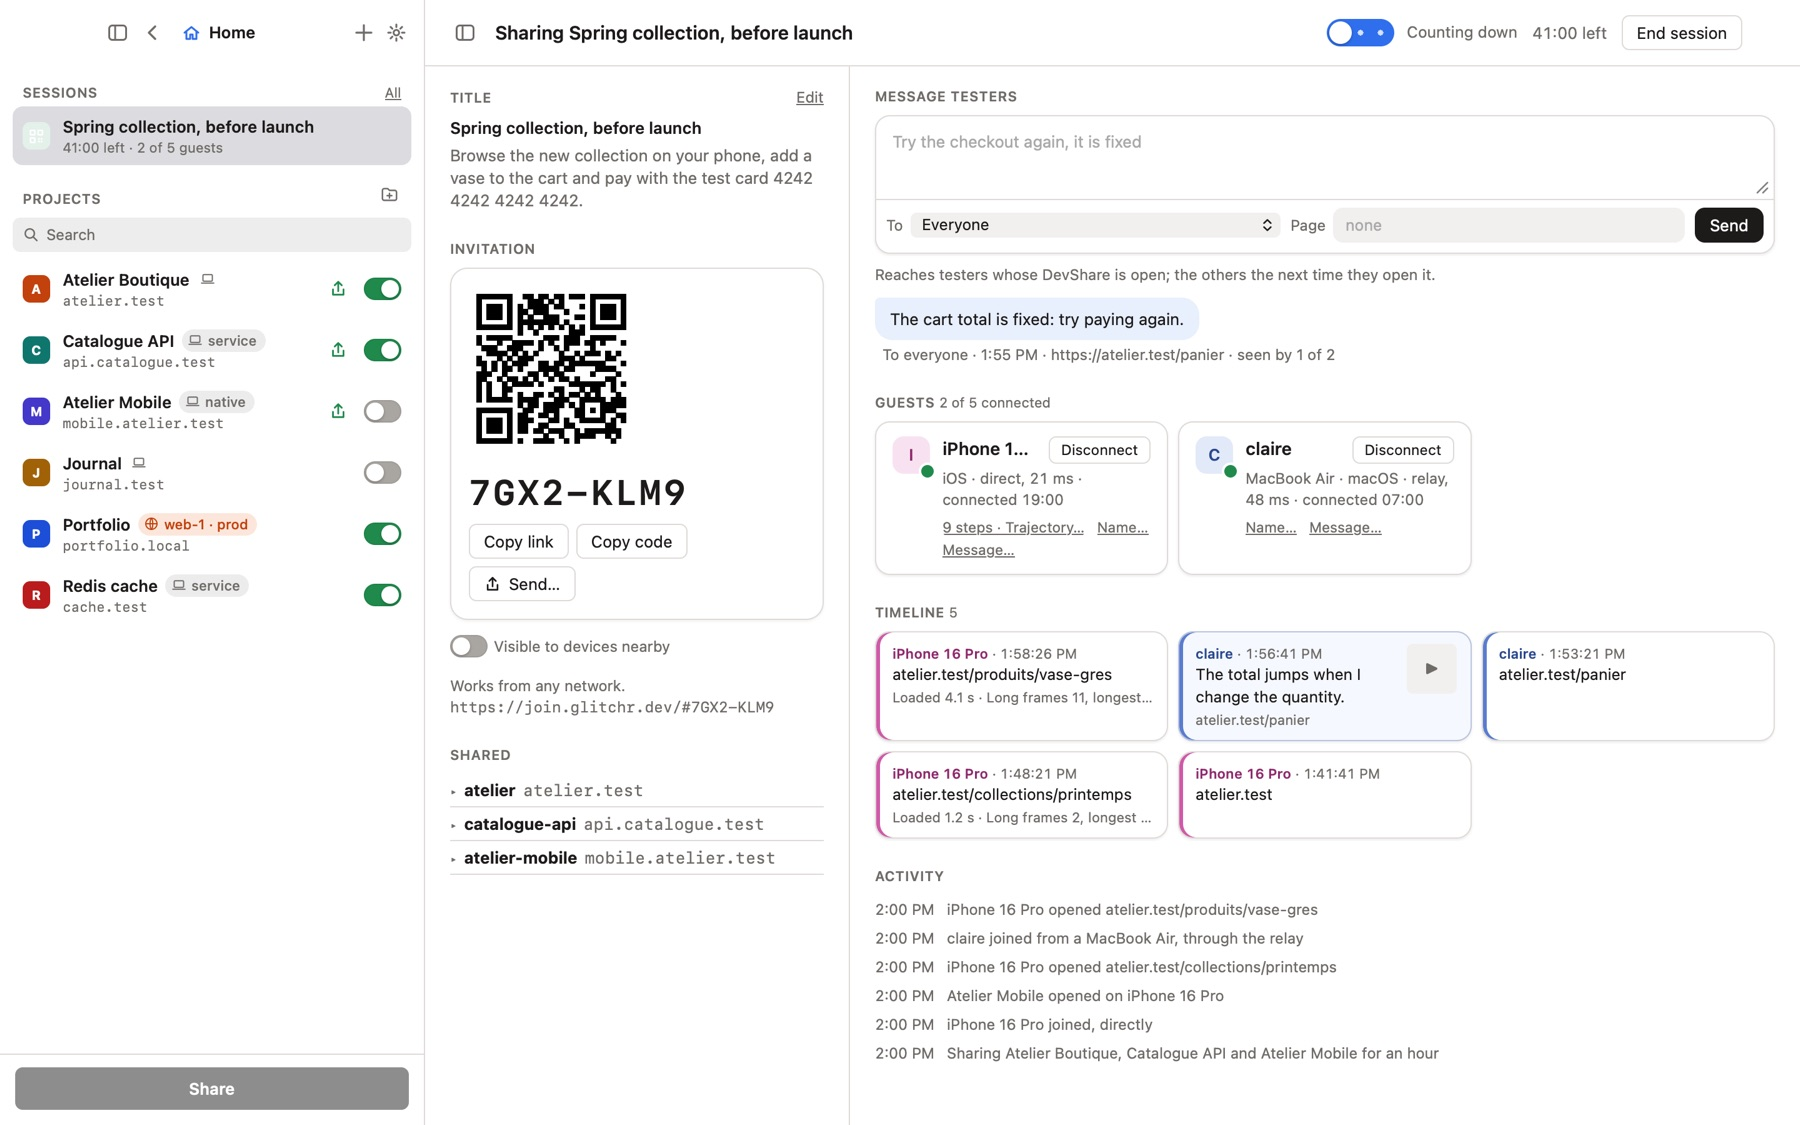
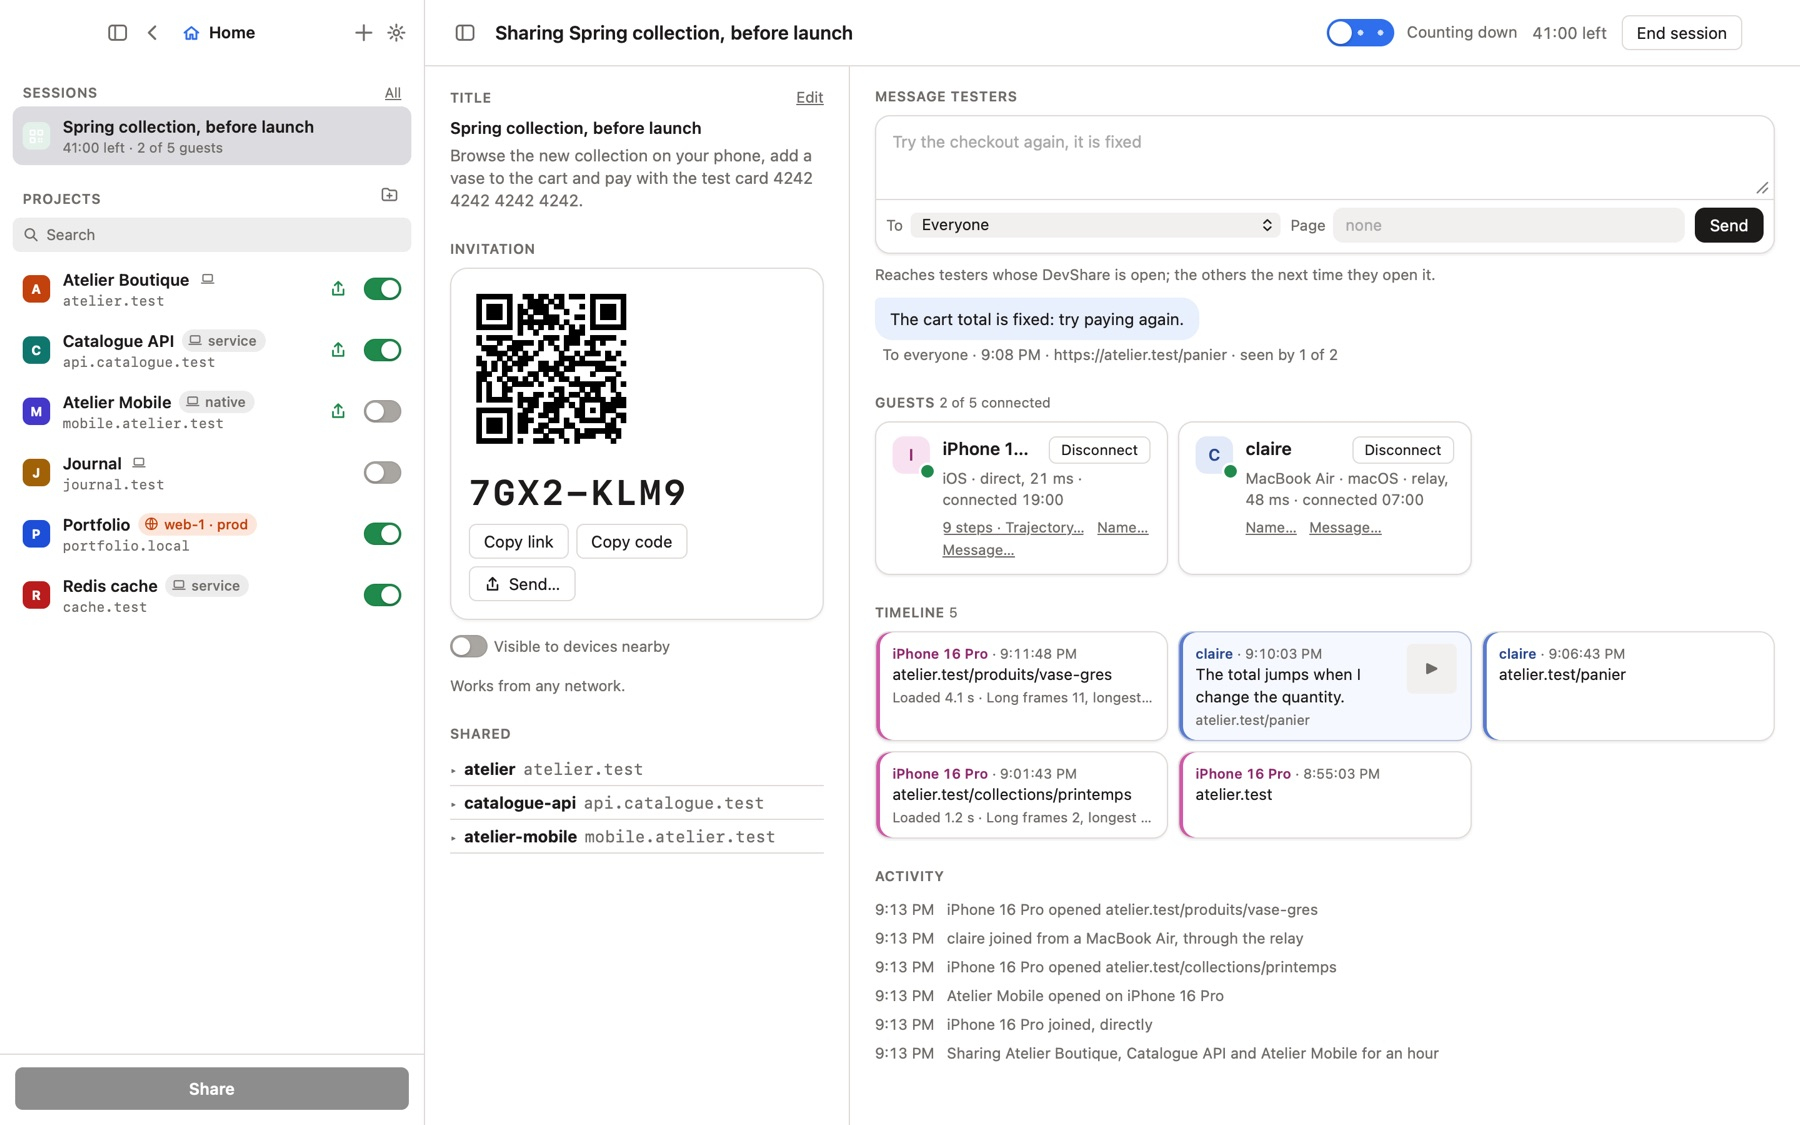
No invitation address shown cut any more: the Mac's pictures taken again from the session page that no longer prints it, and the second step says qr, scan to join, in place of a cut link. Checked: omnibridge-static build --strict 0 errors 0 warnings.

Changed region(s): [[0.2489, 0.6222, 0.4356, 0.7778], [0.5289, 0.3111, 0.7467, 0.3422]]

diff --git a/site/templates/home.php b/site/templates/home.php
@@ -69,7 +69,7 @@
       <li>
         <h3>Share</h3>
         <p>One click gives a QR code, a link and a code. The session ends on its own.</p>
-        <pre><span class="dim">link</span>  join.glitchr.dev/#gVOx…
+        <pre><span class="dim">qr  </span>  scan to join
 <span class="dim">code</span>  7GX2-KLM9
 <span class="dim">ends</span>  in 1:00:00</pre>
       </li>
